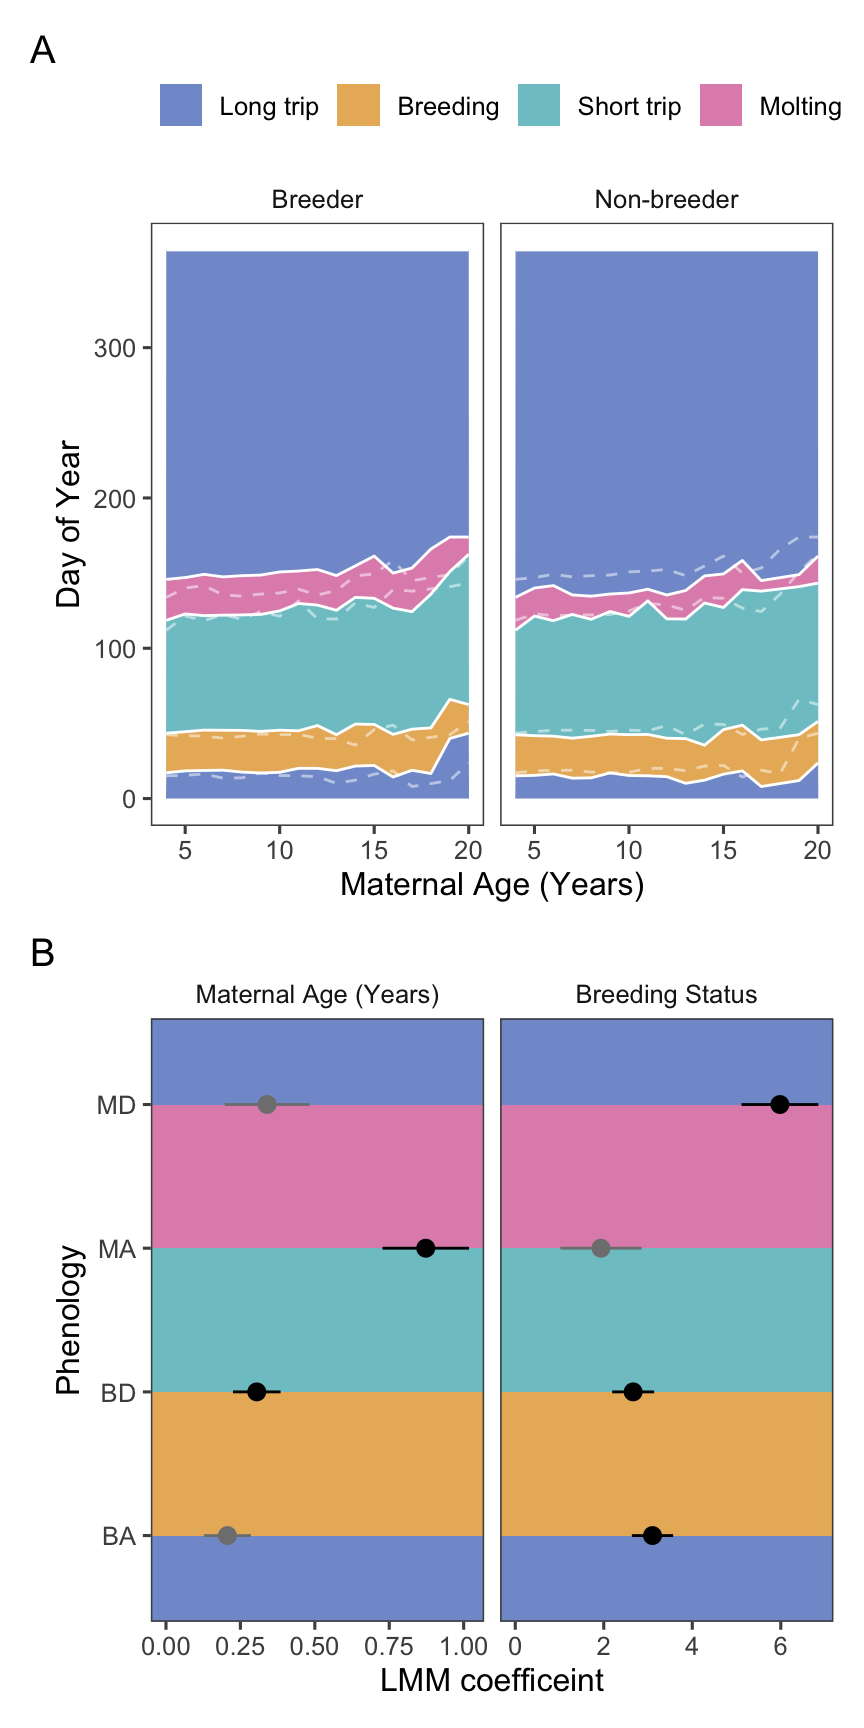
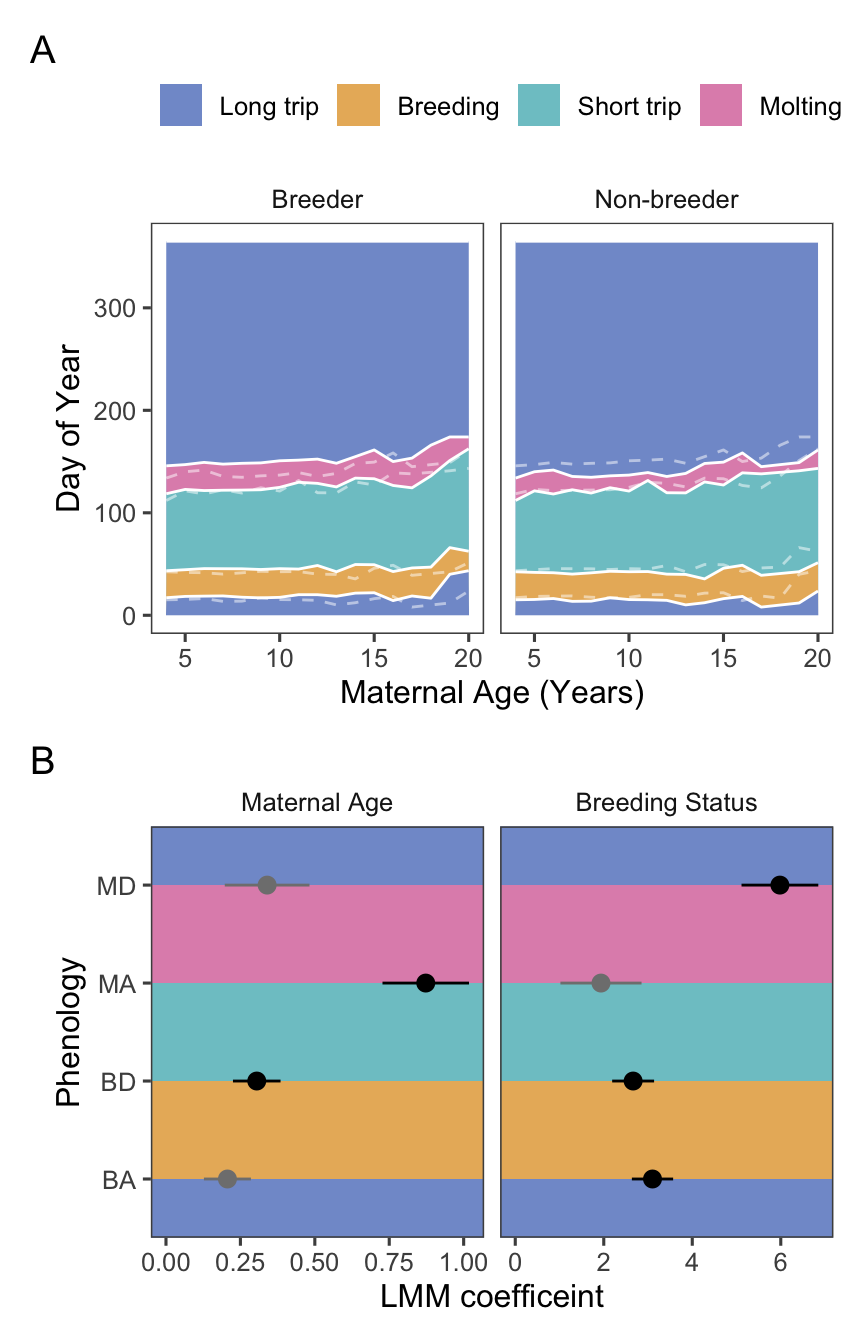
Phenology figure label tweaks

diff --git a/docs/paperv2.html b/docs/paperv2.html
@@ -1050,7 +1050,7 @@ window.document.addEventListener("DOMContentLoaded", function (event) {
 <span id="cb6-366"><a href="#cb6-366" aria-hidden="true" tabindex="-1"></a></span>
 <span id="cb6-369"><a href="#cb6-369" aria-hidden="true" tabindex="-1"></a><span class="in">```{r}</span></span>
 <span id="cb6-370"><a href="#cb6-370" aria-hidden="true" tabindex="-1"></a><span class="co">#| label: fig-phenology</span></span>
-<span id="cb6-371"><a href="#cb6-371" aria-hidden="true" tabindex="-1"></a><span class="co">#| fig-height: 9</span></span>
+<span id="cb6-371"><a href="#cb6-371" aria-hidden="true" tabindex="-1"></a><span class="co">#| fig-height: 7</span></span>
 <span id="cb6-372"><a href="#cb6-372" aria-hidden="true" tabindex="-1"></a><span class="co">#| fig-cap: "Phenology caption"</span></span>
 <span id="cb6-373"><a href="#cb6-373" aria-hidden="true" tabindex="-1"></a></span>
 <span id="cb6-374"><a href="#cb6-374" aria-hidden="true" tabindex="-1"></a>phen_plot1 <span class="ot">&lt;-</span> <span class="fu">ggplot</span>(timing_summary, <span class="fu">aes</span>(<span class="at">x =</span> age, <span class="at">y =</span> doy, <span class="at">fill =</span> event)) <span class="sc">+</span> </span>
@@ -1114,7 +1114,7 @@ window.document.addEventListener("DOMContentLoaded", function (event) {
 <span id="cb6-432"><a href="#cb6-432" aria-hidden="true" tabindex="-1"></a>  <span class="fu">pivot_wider</span>(<span class="at">names_from =</span> metric, <span class="at">values_from =</span> value) <span class="sc">%&gt;%</span> </span>
 <span id="cb6-433"><a href="#cb6-433" aria-hidden="true" tabindex="-1"></a>  <span class="fu">mutate</span>(<span class="at">signif =</span> <span class="fu">as.logical</span>(signif), </span>
 <span id="cb6-434"><a href="#cb6-434" aria-hidden="true" tabindex="-1"></a>         <span class="at">param =</span> <span class="fu">factor</span>(param, </span>
-<span id="cb6-435"><a href="#cb6-435" aria-hidden="true" tabindex="-1"></a>                        <span class="at">labels =</span> <span class="fu">c</span>(<span class="st">"Maternal Age (Years)"</span>, </span>
+<span id="cb6-435"><a href="#cb6-435" aria-hidden="true" tabindex="-1"></a>                        <span class="at">labels =</span> <span class="fu">c</span>(<span class="st">"Maternal Age"</span>, </span>
 <span id="cb6-436"><a href="#cb6-436" aria-hidden="true" tabindex="-1"></a>                                   <span class="st">"Breeding Status"</span>))) <span class="sc">%&gt;%</span> </span>
 <span id="cb6-437"><a href="#cb6-437" aria-hidden="true" tabindex="-1"></a>  <span class="fu">ggplot</span>(<span class="fu">aes</span>(<span class="at">x =</span> coef, <span class="at">y =</span> phenology)) <span class="sc">+</span></span>
 <span id="cb6-438"><a href="#cb6-438" aria-hidden="true" tabindex="-1"></a>  <span class="co"># Prevent geom_rect() from establishing a continuous y-axis scale</span></span>
